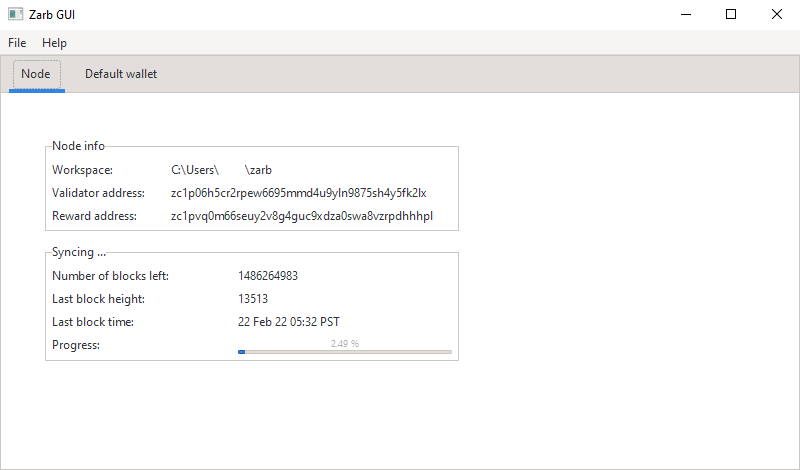
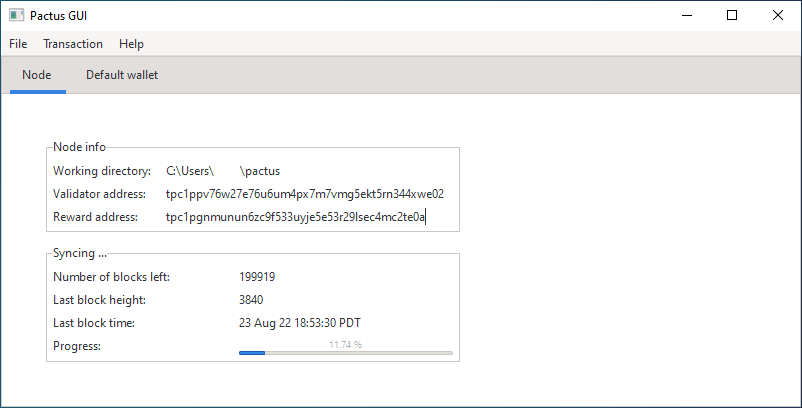
Updating download page

diff --git a/website/_includes/head.html b/website/_includes/head.html
@@ -9,7 +9,9 @@
   </title>
   <meta name="description" content="{{ page.seo_desc }}" />
 
-  <meta property="og:title" content="{{ page.title }} | {% t dict.pactus_blockchain %}" />
+  <meta
+    property="og:title"
+    content="{{ page.title }} | {% t dict.pactus_blockchain %}" />
   <meta property="og:description" content="{{ page.seo_desc }}" />
   <meta property="og:site_name" content="{% t dict.pactus_blockchain %}" />
   <meta property="og:url" content="{{ site.url }}/{{ page.url }}" />

diff --git a/website/download/index.md b/website/download/index.md
@@ -1,36 +1,129 @@
 ---
 layout: base
-title: Download
+title: dict.download
 permalink: /download/index.html
 ---
 
-# Get Pactus
+# {% t dict.download_pactus %}
 
-On this page you can find how to download and get the latest version of the Pactus software.
+{% t dict.download_on_this_page_v1 %}
 
-##🏗 Compile from Source Code
+## 🏗 {% t dict.download_compile_from_source_code %}
 
-Project Pactus is distributed as open source software, so the preferred way for installing it is to
-clone the source code from the [github](https://github.com/pactus-project/pactus) repository and compile
-the source code.
+{% t dict.download_project_pactus_is_distributed_v1 %}
 
-Instructions for compiling Pactus is provided on the
-[install](https://github.com/pactus-project/pactus.org/blob/main/INSTALL.md) page.
+{% t dict.download_instructions_for_compiling_v1 %}
 
-## ⬇ Download precompiled binaries
+## ⬇ {% t dict.download_stable_releases %}
 
-You can also download the latest precompiled binary version:
+{% t dict.download_stable_releases_desc_v1 %}
 
-- [Windows 64-bit - Pactus GUI (installer)](https://github.com/pactus-project/pactus.org/releases/download/v0.9.0/zarb-0.9.0-windows-x86_64-installer.exe)
-- [Windows 64-bit - Pactus CLI (zip)](https://github.com/pactus-project/pactus.org/releases/download/v0.9.0/zarb-0.9.0-windows-x86_64.zip)
-- [MacOS 64-bit - Pactus GUI (dmg)](https://github.com/pactus-project/pactus.org/releases/download/v0.9.0/zarb-0.9.0-osx-64.dmg)
-- [MacOS 64-bit - Pactus CLI (tar.gz)](https://github.com/pactus-project/pactus.org/releases/download/v0.9.0/zarb-0.9.0-osx-64.tar.gz)
-- [Linux 64-bit (tar.gz)](https://github.com/pactus-project/pactus.org/releases/download/v0.9.0/zarb-0.9.0-linux-x86_64.tar.gz)
+### {% t dict.pactus_gui %}
+
+{% t dict.download_you_can_run_gui_v1 %}
+
+![Pactus GUI - Main Window](/assets/images/pactus_gui_main_window.png)
+
+| **File name**                                                                                                                                                  | **Kind**  | **OS**  | **Arch** |
+| -------------------------------------------------------------------------------------------------------------------------------------------------------------- | --------- | ------- | -------- |
+| [pactus-gui_0.9.0_darwin_amd64.dmg](https://github.com/pactus-project/pactus/releases/download/v0.9.0/pactus-gui_0.9.0_darwin_amd64.dmg)                       | DMG       | macOS   | 64-bit   |
+| [pactus-gui_0.9.0_darwin_amd64.tar.gz](https://github.com/pactus-project/pactus/releases/download/v0.9.0/pactus-gui_0.9.0_darwin_amd64.tar.gz)                 | Archive   | macOS   | 64-bit   |
+| [pactus-gui_0.9.0_linux_amd64.tar.gz](https://github.com/pactus-project/pactus/releases/download/v0.9.0/pactus-gui_0.9.0_linux_amd64.tar.gz)                   | Archive   | Linux   | 64-bit   |
+| [pactus-gui_0.9.0_windows_amd64.zip](https://github.com/pactus-project/pactus/releases/download/v0.9.0/pactus-gui_0.9.0_windows_amd64.zip)                     | Archive   | Windows | 64-bit   |
+| [pactus-gui_0.9.0_windows_amd64_installer.exe](https://github.com/pactus-project/pactus/releases/download/v0.9.0/pactus-gui_0.9.0_windows_amd64_installer.exe) | Installer | Windows | 64-bit   |
+
+
+#### Antivirus
 
 Be aware that the precompiled binaries are not shipped with any
 [code signing](https://en.wikipedia.org/wiki/Code_signing) certificate. Most probability in Windows
 and MacOS the downloaded binaries are detected as harmful or malware software.
 
+#### Running the node
+
+If you are running Pactus for the first time, there is an assistant page that help you to initialize
+your node. After initializing the working directory, you can run the node and start syncing with the testnet.
+
+### {% t dict.pactus_cli %}
+
+Advanced user can run Pactus in Command Line Interface (CLI) mode.
+
+![Pactus GUI - Main Window](/assets/images/pactus_cli.png)
+
+| **File name**                                                                                                                                     | **OS**  | **Arch** |
+| ------------------------------------------------------------------------------------------------------------------------------------------------- | ------- | -------- |
+| [pactus-cli_0.9.0_android_arm64.tar.gz ](https://github.com/pactus-project/pactus/releases/download/v0.9.0/pactus-cli_0.9.0_android_arm64.tar.gz) | Android | ARM64    |
+| [pactus-cli_0.9.0_darwin_amd64.tar.gz ](https://github.com/pactus-project/pactus/releases/download/v0.9.0/pactus-cli_0.9.0_darwin_amd64.tar.gz)   | macOS   | 6d-bit   |
+| [pactus-cli_0.9.0_darwin_arm64.tar.gz ](https://github.com/pactus-project/pactus/releases/download/v0.9.0/pactus-cli_0.9.0_darwin_arm64.tar.gz)   | macOS   | ARM64    |
+| [pactus-cli_0.9.0_freebsd_amd64.tar.gz ](https://github.com/pactus-project/pactus/releases/download/v0.9.0/pactus-cli_0.9.0_freebsd_amd64.tar.gz) | freebsd | 6d-bit   |
+| [pactus-cli_0.9.0_freebsd_arm.tar.gz ](https://github.com/pactus-project/pactus/releases/download/v0.9.0/pactus-cli_0.9.0_freebsd_arm.tar.gz)     | freebsd | ARM      |
+| [pactus-cli_0.9.0_linux_amd64.tar.gz ](https://github.com/pactus-project/pactus/releases/download/v0.9.0/pactus-cli_0.9.0_linux_amd64.tar.gz)     | linux   | 6d-bit   |
+| [pactus-cli_0.9.0_linux_arm64.tar.gz ](https://github.com/pactus-project/pactus/releases/download/v0.9.0/pactus-cli_0.9.0_linux_arm64.tar.gz)     | linux   | ARM64    |
+| [pactus-cli_0.9.0_windows_386.zip ](https://github.com/pactus-project/pactus/releases/download/v0.9.0/pactus-cli_0.9.0_windows_386.zip)           | windows | 32-bit   |
+| [pactus-cli_0.9.0_windows_amd64.zip ](https://github.com/pactus-project/pactus/releases/download/v0.9.0/pactus-cli_0.9.0_windows_amd64.zip)       | windows | 6d-bit   |
+
+#### Initializing the node
+
+First you need to create a working directory for your validator. A working directory is a place
+where you save blockchain data, config and key files.
+
+{% tabs init %}
+
+{% tab init Windows %}
+
+```
+./zarb-daemon.exe init -w c:\zarb --testnet
+```
+
+This command creates a working directory for the testnet at `c:\zarb`.
+
+{% endtab %}
+
+{% tab init Linux and Mac %}
+
+```
+./zarb-daemon init -w ~/zarb --testnet
+```
+
+This command creates a working working directory for the testnet at `~/zarb`.
+
+{% endtab %}
+
+{% endtabs %}
+
+Working directory contains:
+
+- Default wallet
+- Genesis file
+- Config file
+
+Feel free to take a look at these files.
+
+#### Running the node
+
+Now you can start the node and sync with the testnet. This may take several hours:
+
+{% tabs start %}
+
+{% tab start Windows %}
+
+```
+./zarb-daemon.exe start -w c:\zarb
+```
+
+{% endtab %}
+
+{%
+ tab start Linux and Mac %}
+
+```
+./zarb-daemon start -w ~/zarb
+```
+
+{% endtab %}
+
+{% endtabs %}
+
 ## 🐳 Docker container
 
-Advanced user can get the Pactus docker image from docker hub.
+Advanced user can get the Pactus docker image from [docker hub](https://hub.docker.com/r/pactus/pactus).
